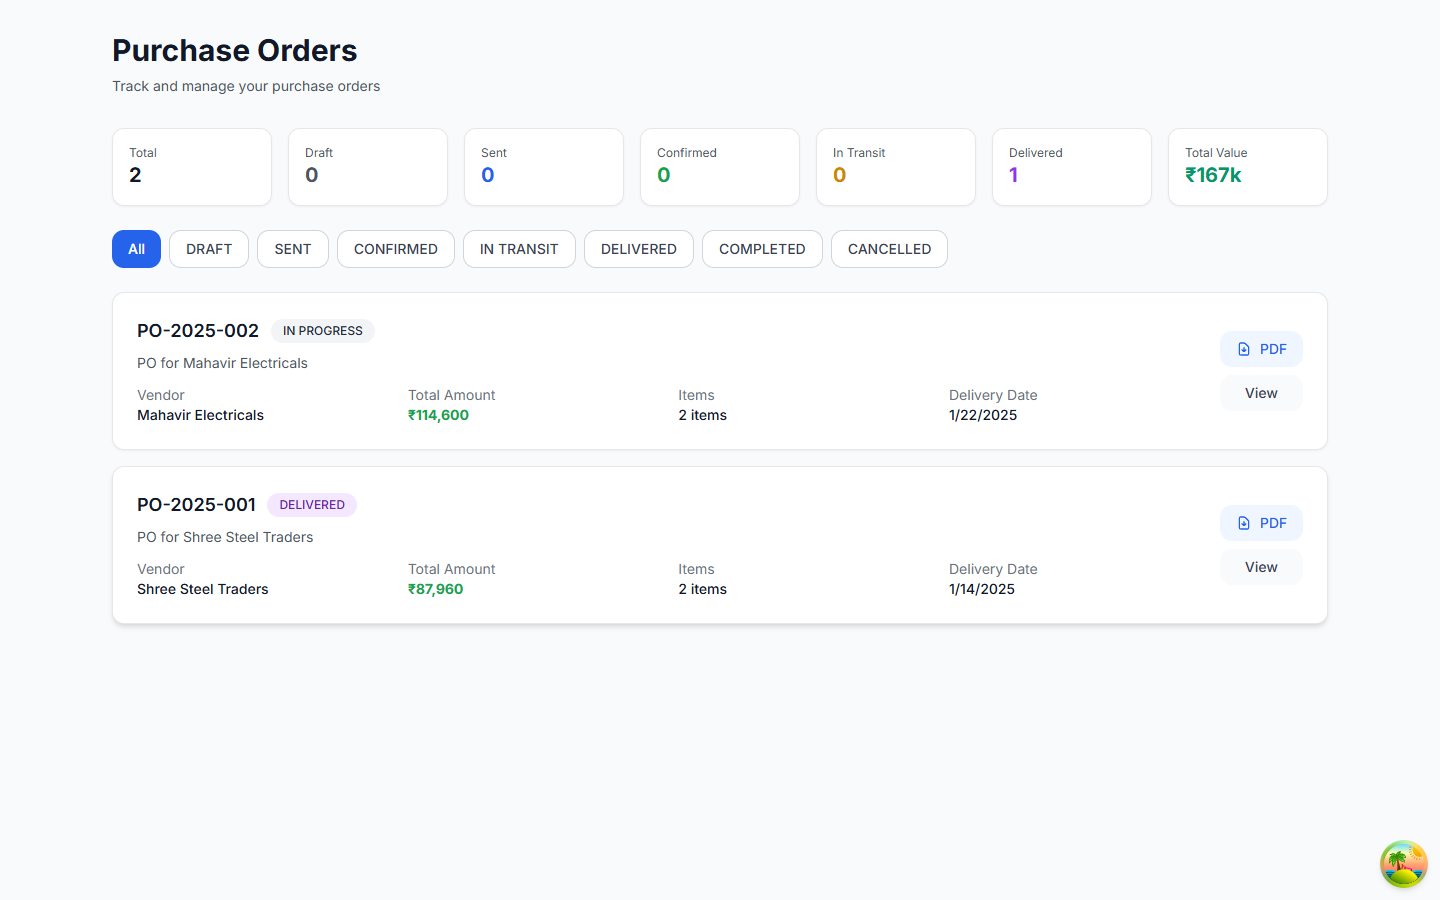
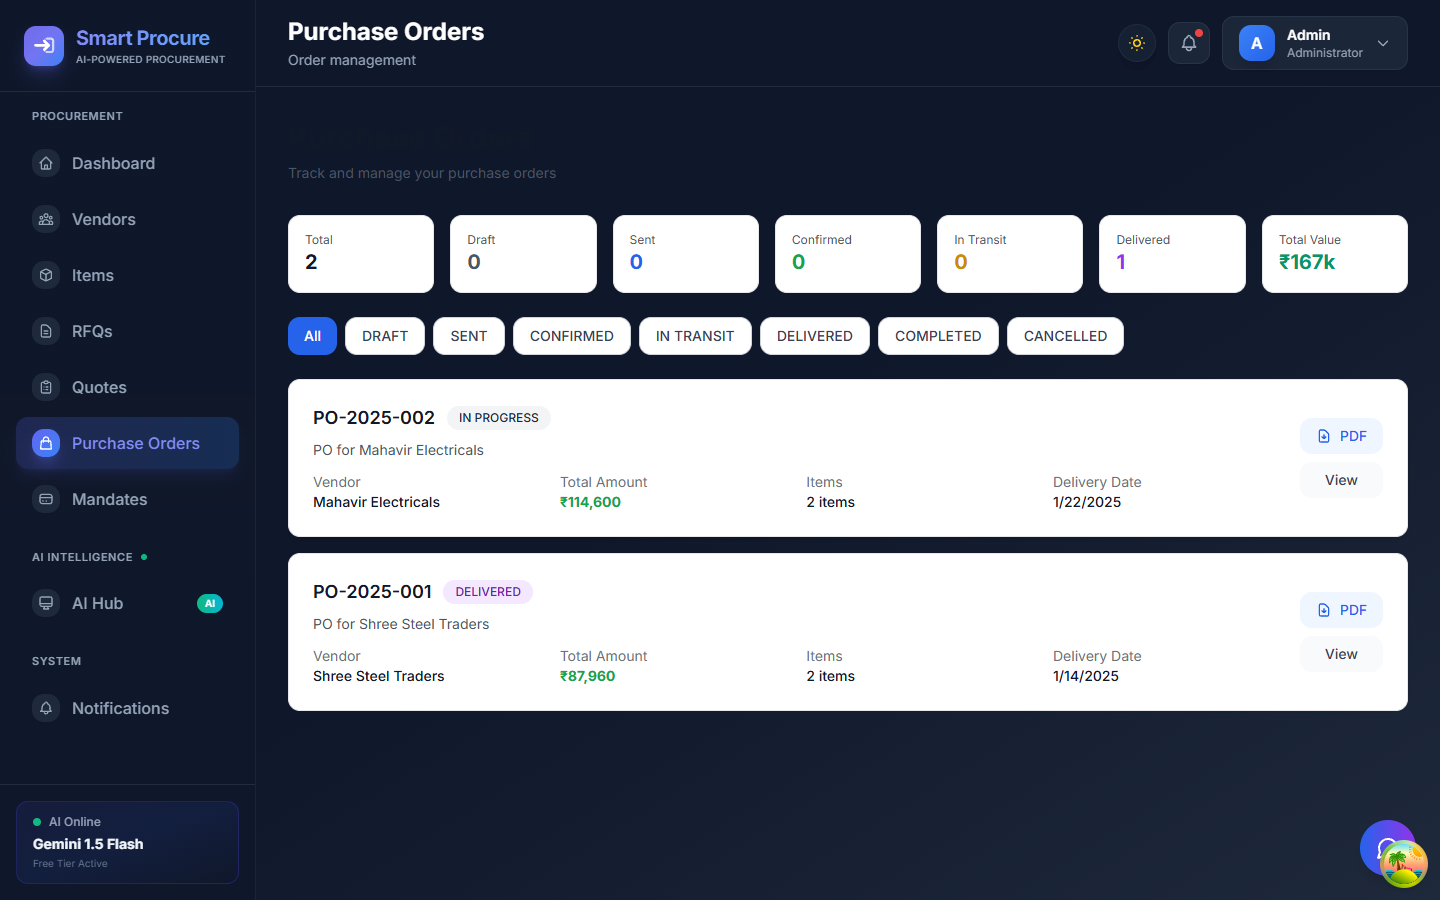
Add sidebar to Items, RFQs, Quotes, PO pages; update screenshots

diff --git a/apps/frontend/app/purchase-orders/page.tsx b/apps/frontend/app/purchase-orders/page.tsx
@@ -2,6 +2,7 @@
 
 import { useState, useEffect } from 'react';
 import { useRouter } from 'next/navigation';
+import AppLayout from '@/components/AppLayout';
 
 interface PurchaseOrder {
   id: string;
@@ -151,15 +152,17 @@ export default function PurchaseOrdersPage() {
 
   if (loading) {
     return (
-      <div className="min-h-screen flex items-center justify-center">
-        <div className="animate-spin rounded-full h-12 w-12 border-b-2 border-blue-600"></div>
-      </div>
+      <AppLayout>
+        <div className="flex items-center justify-center h-64">
+          <div className="animate-spin rounded-full h-12 w-12 border-b-2 border-blue-600"></div>
+        </div>
+      </AppLayout>
     );
   }
 
   return (
-    <div className="min-h-screen bg-gray-50">
-      <div className="max-w-7xl mx-auto px-4 sm:px-6 lg:px-8 py-8">
+    <AppLayout>
+      <div className="space-y-6">
         {/* Header */}
         <div className="mb-8">
           <h1 className="text-3xl font-bold text-gray-900">Purchase Orders</h1>
@@ -289,7 +292,6 @@ export default function PurchaseOrdersPage() {
             ))
           )}
         </div>
-      </div>
 
       {/* PO Details Modal */}
       {selectedPO && (
@@ -456,6 +458,7 @@ export default function PurchaseOrdersPage() {
           </div>
         </div>
       )}
-    </div>
+      </div>
+    </AppLayout>
   );
 }

diff --git a/apps/frontend/app/rfqs/page.tsx b/apps/frontend/app/rfqs/page.tsx
@@ -2,6 +2,7 @@
 
 import { useState, useEffect } from 'react';
 import { useRouter } from 'next/navigation';
+import AppLayout from '@/components/AppLayout';
 
 interface Vendor {
   id: string;
@@ -194,15 +195,17 @@ export default function RFQsPage() {
 
   if (loading) {
     return (
-      <div className="min-h-screen flex items-center justify-center">
-        <div className="animate-spin rounded-full h-12 w-12 border-b-2 border-blue-600"></div>
-      </div>
+      <AppLayout>
+        <div className="flex items-center justify-center h-64">
+          <div className="animate-spin rounded-full h-12 w-12 border-b-2 border-blue-600"></div>
+        </div>
+      </AppLayout>
     );
   }
 
   return (
-    <div className="min-h-screen bg-gray-50">
-      <div className="max-w-7xl mx-auto px-4 sm:px-6 lg:px-8 py-8">
+    <AppLayout>
+      <div className="space-y-6">
         {/* Header */}
         <div className="mb-8">
           <h1 className="text-3xl font-bold text-gray-900">Request for Quotations (RFQ)</h1>
@@ -501,6 +504,6 @@ export default function RFQsPage() {
           </div>
         </div>
       )}
-    </div>
+    </AppLayout>
   );
 }

diff --git a/apps/frontend/app/quotes/page.tsx b/apps/frontend/app/quotes/page.tsx
@@ -2,6 +2,7 @@
 
 import { useState, useEffect } from 'react';
 import { useRouter } from 'next/navigation';
+import AppLayout from '@/components/AppLayout';
 
 interface Quote {
   id: string;
@@ -124,15 +125,17 @@ export default function QuotesPage() {
 
   if (loading) {
     return (
-      <div className="min-h-screen flex items-center justify-center">
-        <div className="animate-spin rounded-full h-12 w-12 border-b-2 border-blue-600"></div>
-      </div>
+      <AppLayout>
+        <div className="flex items-center justify-center h-64">
+          <div className="animate-spin rounded-full h-12 w-12 border-b-2 border-blue-600"></div>
+        </div>
+      </AppLayout>
     );
   }
 
   return (
-    <div className="min-h-screen bg-gray-50">
-      <div className="max-w-7xl mx-auto px-4 sm:px-6 lg:px-8 py-8">
+    <AppLayout>
+      <div className="space-y-6">
         {/* Header */}
         <div className="mb-8">
           <h1 className="text-3xl font-bold text-gray-900">Quote Comparison</h1>
@@ -417,6 +420,6 @@ export default function QuotesPage() {
           </div>
         </div>
       )}
-    </div>
+    </AppLayout>
   );
 }

diff --git a/apps/frontend/app/items/page.tsx b/apps/frontend/app/items/page.tsx
@@ -2,6 +2,7 @@
 
 import { useState, useEffect } from 'react';
 import { useRouter } from 'next/navigation';
+import AppLayout from '@/components/AppLayout';
 
 interface Item {
   id: string;
@@ -160,15 +161,17 @@ export default function ItemsPage() {
 
   if (loading) {
     return (
-      <div className="min-h-screen flex items-center justify-center">
-        <div className="animate-spin rounded-full h-12 w-12 border-b-2 border-blue-600"></div>
-      </div>
+      <AppLayout>
+        <div className="flex items-center justify-center h-64">
+          <div className="animate-spin rounded-full h-12 w-12 border-b-2 border-blue-600"></div>
+        </div>
+      </AppLayout>
     );
   }
 
   return (
-    <div className="min-h-screen bg-gray-50">
-      <div className="max-w-7xl mx-auto px-4 sm:px-6 lg:px-8 py-8">
+    <AppLayout>
+      <div className="space-y-6">
         {/* Header */}
         <div className="mb-8">
           <h1 className="text-3xl font-bold text-gray-900">Item Catalog</h1>
@@ -455,6 +458,6 @@ export default function ItemsPage() {
           </div>
         </div>
       )}
-    </div>
+    </AppLayout>
   );
 }
